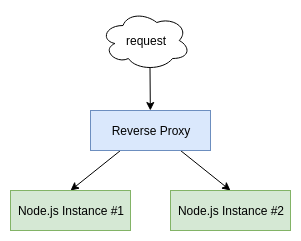
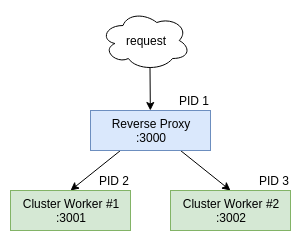
node-avoid-cluster: revise based on practice talk

diff --git a/node-avoid-cluster/index.html b/node-avoid-cluster/index.html
@@ -153,10 +153,11 @@ section.intro img {
           <h2>Friends don't let Friends Cluster</h2>
           <h3>Thomas Hunter II</h3>
           <br />
-          <p>Content from <em>Distributed Node.js (O'Reilly, ~2021)</em></p>
+          <p>Adapted from <em>Distributed Node.js (O'Reilly, ~2021)</em></p>
         </section>
 
 
+        <!--
         <section>
           <h2>Roadmap</h2>
 
@@ -166,32 +167,36 @@ section.intro img {
             <li><a href="#/chapter-3">Performance Comparison</a></li>
           </ol>
         </section>
+        -->
 
 
         <section id="chapter-intro">
-          <h3>Problem: One process isn't enough</h3>
+          <h3>Problem: One Process isn't Enough</h3>
 
           <ul>
             <li>A single process can get overwhelmed</li>
-            <li>CPU intensive work blocks event loop</li>
-            <li>Perhaps a memory-heavy application</li>
-            <li>Non-zero chance that a process will crash</li>
+            <li>CPU intensive work can block the event loop</li>
+            <li>App might have high memory requirement</li>
+            <li>Node.js processes can crash</li>
           </ul>
         </section>
 
         <section>
-          <h3>Solution: Run more than one process</h3>
+          <h3>Solution: Run more than one Process</h3>
 
           <ul>
-            <li>Sometimes called <em>Horizontal Scaling</em></li>
+            <li>AKA <em>Horizontal Scaling</em></li>
             <li>In theory, two processes handle twice the load</li>
-            <li>If one crashes, the other may survive</li>
+            <li>If one crashes, others may survive</li>
           </ul>
         </section>
 
+
+        <!--
         <section>
           <h3>What tools are available to<br />run multiple processes?</h3>
         </section>
+        -->
 
 
         <section id="chapter-1">
@@ -200,20 +205,11 @@ section.intro img {
 
 
         <section>
-          <h3><code>cluster</code> is a module built into Node.js</h3>
-
-          <pre><code class="javascript">const cluster = require('cluster');</code></pre>
-
-          <img height="400" src="images/cluster-module.png" />
-        </section>
-
-
-        <section>
-          <h3><code>cluster</code> makes clustering easy</h3>
+          <h3><code>cluster</code> makes Clustering Easy</h3>
 
 <pre><code class="javascript">const cluster = require('cluster');
 const http = require('http');
-const COOL_VALUE = Math.random();
+const LUCKY_NUMBER = Math.random();
 
 if (cluster.isMaster) {
   console.log(`Master ${process.pid} is running`);
@@ -221,7 +217,7 @@ if (cluster.isMaster) {
 } else {
   http.createServer((_req, res) =&gt; {
     res.writeHead(200);
-    res.end('hello world\n');
+    res.end(`Hello World! ${LUCKY_NUMBER}`);
   }).listen(3001);
   console.log(`Worker ${process.pid} started`);
 }</code></pre>
@@ -229,17 +225,17 @@ if (cluster.isMaster) {
 
 
         <section>
-          <h3>Docs are a little misleading</h3>
+          <h3>Docs make <code>cluster</code> look Magical</h3>
           <ul>
             <li>The docs make it <em>look</em> like a single global</li>
-            <li>For example, is <code>COOL_VALUE</code> shared?</li>
+            <li>For example, is <code>LUCKY_NUMBER</code> shared?</li>
             <li>Why does the master load the <code>http</code> module?</li>
           </ul>
         </section>
 
 
         <section>
-          <h3><code>cluster</code>: A clearer example</h3>
+          <h3>A Clearer <code>cluster</code> Example</h3>
 
 <pre><code class="javascript">// master.js
 const cluster = require('cluster');
@@ -248,40 +244,53 @@ cluster.setupMaster({exec: __dirname+'/worker.js'});
 cluster.fork(); cluster.fork();</code></pre>
 
 <pre><code class="javascript">// worker.js
+const LUCKY_NUMBER = Math.random();
 require('http').createServer((_req, res) =&gt; {
   res.writeHead(200);
-  res.end('hello world\n');
+  res.end(`Hello World! ${LUCKY_NUMBER}`);
 }).listen(3001);
 console.log(`Worker ${process.pid} started`);</code></pre>
         </section>
 
 
         <section>
-          <h3>How does <code>cluster</code> work?</h3>
+          <h3><code>cluster</code> uses N+1 Node.js Processes</h3>
+
           <ul>
-            <li>Each worker tells parent what port to listen</li>
+            <!-- <li>One process for each worker, and one master</li> -->
+            <li>Each Worker tells Master what port(s) to listen on</li>
             <li>Master sends messages round robin to workers</li>
             <li>If bind on port <code>0</code>, aka random high, it's consistent</li>
           </ul>
-
-          <pre>node,7500 ./master.js     # pstree command output
-  ├─node,7600 server.js
-  │   ├─{node},7601
-  │   └─{node},7606
-  ├─node,7700 server.js
-  │   ├─{node},7701
-  │   └─{node},7706
-  ├─{node},7501
-  └─{node},7506
+          <img height="280" src="images/cluster-module.png" />
         </section>
 
 
+        <!--
         <section>
-          <h3>Why is <code>cluster</code> undesirable?</h3>
+          <h3>How does <code>cluster</code> work?</h3>
+          <ul>
+          </ul>
+
+          <pre>node,7500 ./master.js     # pstree command output
+  ├─node,7600 worker.js
+  │   ├─{node},7601
+  │   └─{node},7606
+  ├─node,7700 worker.js
+  │   ├─{node},7701
+  │   └─{node},7706
+  ├─{node},7501
+  └─{node},7506</pre>
+        </section>
+        -->
+
+
+        <section>
+          <h3>Why is <code>cluster</code> Undesirable?</h3>
           <ul>
             <li>You can only route requests on the same machine!
               <ul>
-                <li>Sharing RAM and CPU</li>
+                <li>RAM and CPU contention</li>
               </ul>
             </li>
             <li>You're running 3 Node.js instances instead of 2
@@ -289,11 +298,11 @@ console.log(`Worker ${process.pid} started`);</code></pre>
                 <li>In practice, many apps load all modules in master</li>
               </ul>
             </li>
-            <li>L4 routing, doesn't route long-lived requests
+            <li>Layer 4 routing, doesn't route long-lived requests
               <ul>
-                <li>L4 means it routes the TCP connection</li>
-                <li>Consider the gRPC (over HTTP2) protocol</li>
-                <li>The master would stick to a single worker</li>
+                <li>Routes TCP connection, unaware of “messages”</li>
+                <li>Consider gRPC over HTTP2</li>
+                <li>All messages from a client go to same worker</li>
                 <!-- https://gist.github.com/thpham/114d20de8472b2cef966 -->
               </ul>
             </li>
@@ -307,7 +316,7 @@ console.log(`Worker ${process.pid} started`);</code></pre>
 
 
         <section>
-          <h3>A Reverse Proxy (like HAProxy) can...</h3>
+          <h3>A Reverse Proxy can...</h3>
 
           <ul>
             <li>Dispatch requests to backend services</li>
@@ -321,12 +330,13 @@ console.log(`Worker ${process.pid} started`);</code></pre>
 
 
         <section>
-          <h3>HAProxy Routing</h3>
+          <h3>HAProxy is a Reverse Proxy</h3>
 
           <ul>
-            <li>By default routes using round robin (like <code>cluster</code>)</li>
+            <li>Routes using round robin by default</li>
             <li>Configuration is declarative</li>
-            <li>HAProxy is extrememly efficient, C, event loop ;)</li>
+            <li>HAProxy is very efficient, event loop</li>
+            <li>13MB binary written in C</li>
           </ul>
         </section>
 
@@ -335,7 +345,7 @@ console.log(`Worker ${process.pid} started`);</code></pre>
           <h3>HAProxy Configuration</h3>
 
           <ul>
-            <li>Basic round robin routing to two backends</li>
+            <li>Basic routing to two backends</li>
           </ul>
 
           <pre><code class="toml">defaults
@@ -352,16 +362,17 @@ backend web-api
 
 
         <section>
-          <h3>Why prefer HAProxy over <code>cluster</code>?</h3>
+          <h3>Why Prefer HAProxy over <code>cluster</code>?</h3>
           <ul>
             <li>Able to route requests between separate machines</li>
-            <li>Smaller footprint (tiny C binary)</li>
+            <li>Smaller resource footprint</li>
             <li>Offload complexity to code you don't maintain!
               <ul>
-                <li>More stable than Node.js app code</li>
+                <li>More stable than Node.js application code</li>
                 <li>Simplifies application (no gzip, TLS, certs)</li>
               </ul>
             </li>
+            <li>Is both Layer 4 and Layer 7 aware</li>
           </ul>
         </section>
 
@@ -374,9 +385,9 @@ backend web-api
           <h3>Testing Approach</h3>
 
           <ul>
-            <li>Each test has HAProxy in front of Node.js</li>
+            <li>Each test puts HAProxy in front of Node.js</li>
             <li>HAProxy introduces latency via network hop</li>
-            <li>Either perform gzip/TLS in HAProxy or Node.js</li>
+            <li>Perform encoding in either HAProxy or Node.js</li>
             <li>Fastify, routing, JSON, not just <code>http</code> module</li>
           </ul>
 
@@ -389,7 +400,7 @@ backend web-api
           <h3>HAProxy vs Node.js: TLS Termination</h3>
 
           <ul>
-            <li>17kb payload: HAProxy is ~13% faster</li>
+            <li>17kb payload: HAProxy is ~13% higher throughput</li>
           </ul>
 
           <img src="images/perf-tls-17.png" height="380" />
@@ -401,7 +412,7 @@ backend web-api
           <h3>HAProxy vs Node.js: TLS Termination</h3>
 
           <ul>
-            <li>170kb payload: HAProxy is ~18% faster</li>
+            <li>170kb payload: HAProxy is ~18% higher throughput</li>
           </ul>
 
           <img src="images/perf-tls-170.png" height="380" />
@@ -414,7 +425,7 @@ backend web-api
           <h3>HAProxy vs Node.js: gzip Compression</h3>
 
           <ul>
-            <li>17kb payload: HAProxy is ~601% faster</li>
+            <li>17kb payload: HAProxy is ~601% higher throughput</li>
           </ul>
 
           <img src="images/perf-gzip-17.png" height="380" />
@@ -426,7 +437,7 @@ backend web-api
           <h3>HAProxy vs Node.js: gzip Compression</h3>
 
           <ul>
-            <li>170kb payload: HAProxy is ~407% faster</li>
+            <li>170kb payload: HAProxy is ~407% higher throughput</li>
           </ul>
 
           <img src="images/perf-gzip-170.png" height="380" />
@@ -442,7 +453,7 @@ backend web-api
             <li>Follow me: <code><a href="https://twitter.com/tlhunter" title="Twitter @tlhunter">@tlhunter</a></code></li>
             <li>This presentation: <code><a href="http://bit.ly/3bBHuYY" title="Friends don't let friends Cluster">bit.ly/3bBHuYY</a></code></li>
             <li>Benchmark Code: <code><a href="https://bit.ly/39AgMxS">bit.ly/39AgMxS</a></code></li>
-            <li>Content from <em>Distributed Node.js (O'Reilly, ~2021)</em></li>
+            <li>Adapted from <em>Distributed Node.js (O'Reilly, ~2021)</em></li>
           </ul>
         </section>
 
